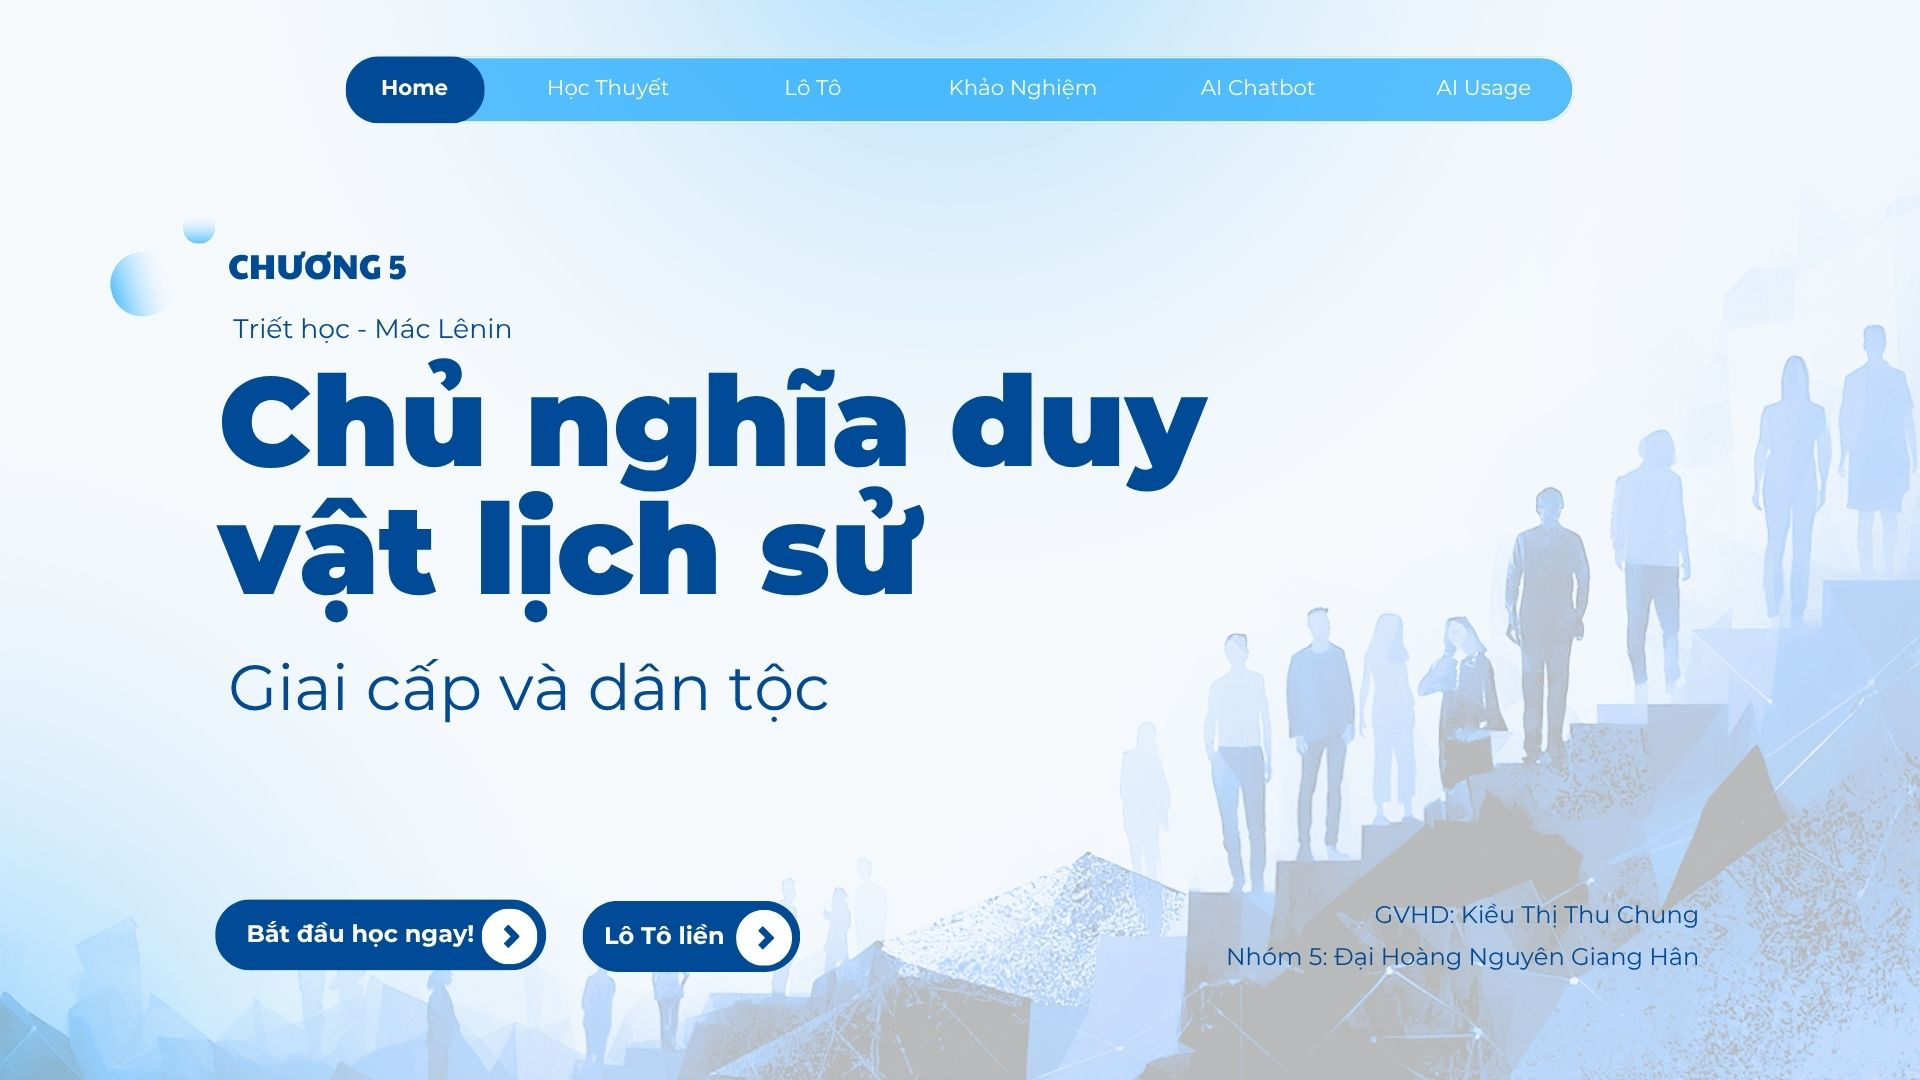
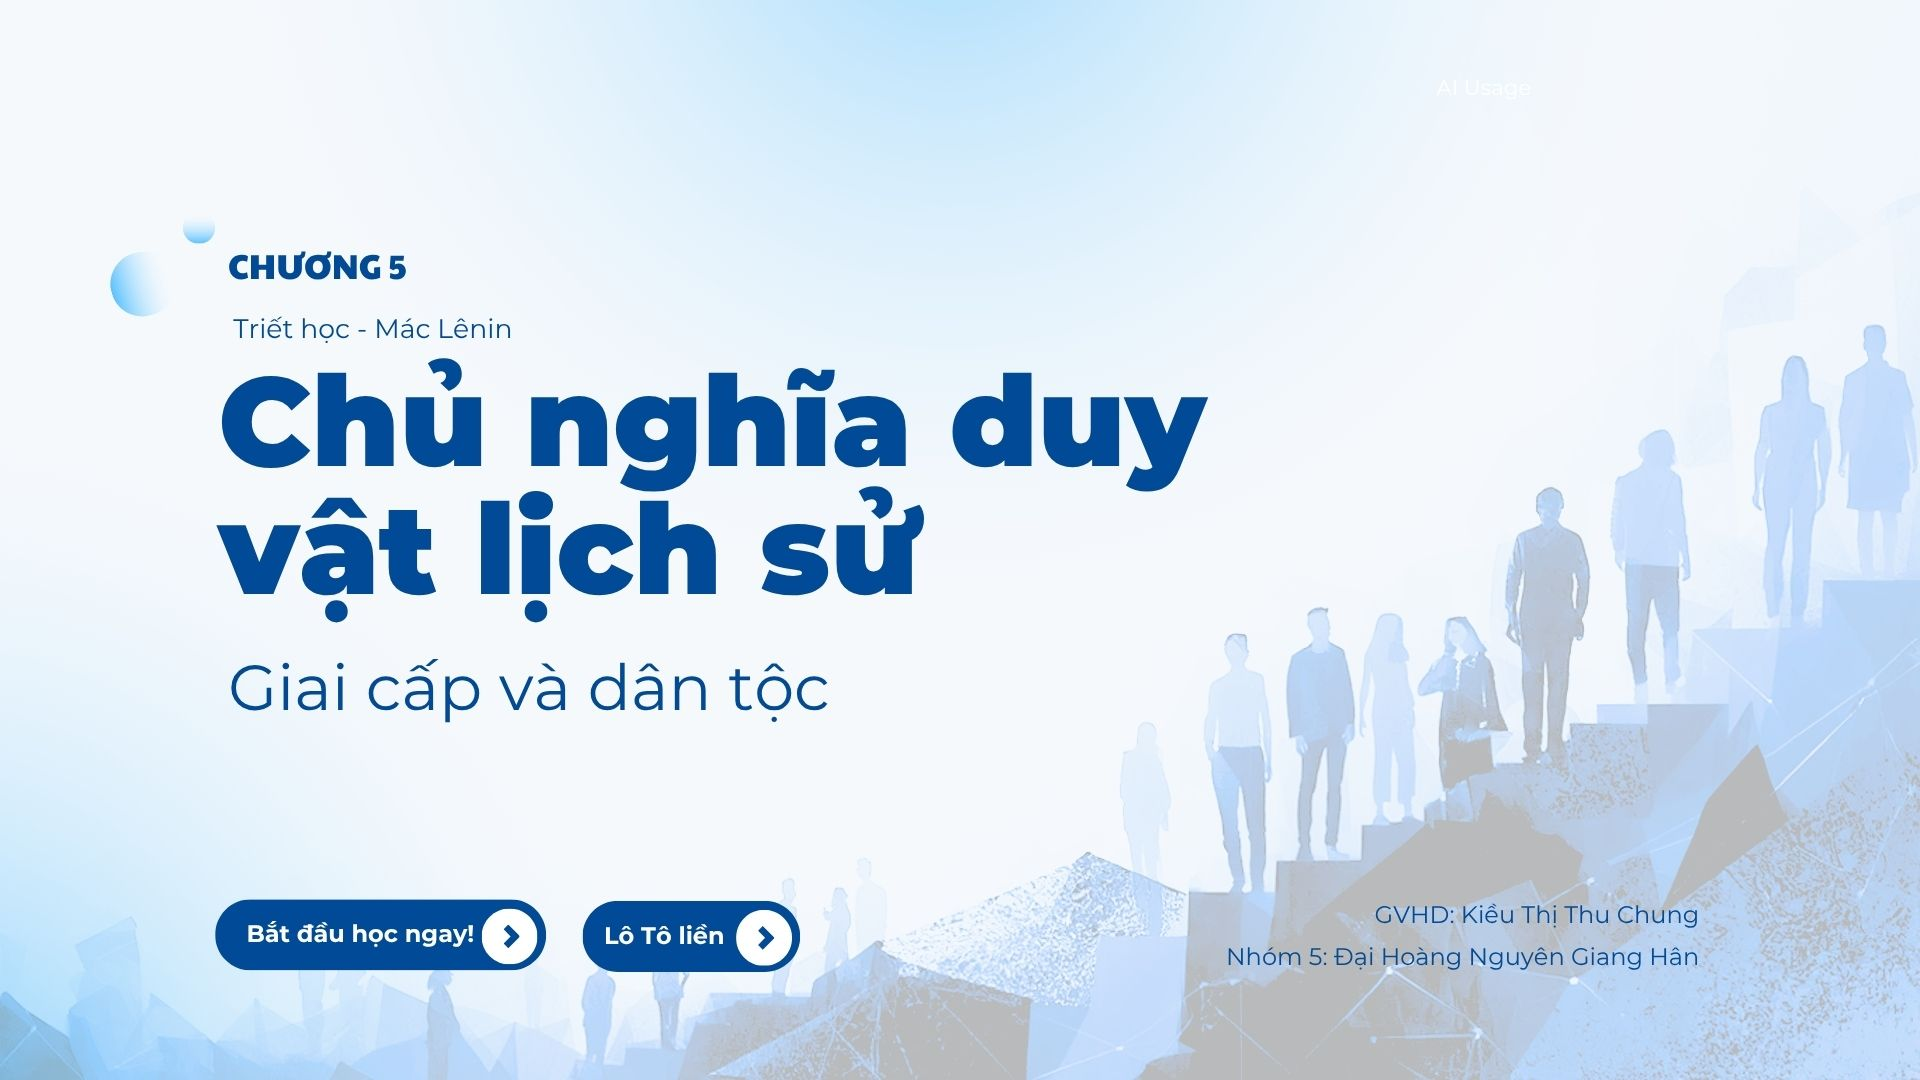
Home

Changed region(s): [[0.1562, 0.0306, 0.8438, 0.1222]]

diff --git a/src/game/sections/Hero.jsx b/src/game/sections/Hero.jsx
@@ -3,11 +3,23 @@ const SLIDE_SRC = "/home-chapter-3.jpg";
 export default function Hero() {
   return (
     <section className="home-slide" id="home">
-      <img
-        className="home-slide-image"
-        src={SLIDE_SRC}
-        alt="Chủ nghĩa duy vật lịch sử - Giai cấp và dân tộc"
-      />
+      <div className="home-slide-frame">
+        <img
+          className="home-slide-image"
+          src={SLIDE_SRC}
+          alt="Chủ nghĩa duy vật lịch sử - Giai cấp và dân tộc"
+        />
+        <a
+          className="home-slide-hotspot home-slide-hotspot-theory"
+          href="#ton-tai"
+          aria-label="Bắt đầu học ngay"
+        />
+        <a
+          className="home-slide-hotspot home-slide-hotspot-loto"
+          href="#loto"
+          aria-label="Lô Tô liền"
+        />
+      </div>
     </section>
   );
 }

diff --git a/src/index.css b/src/index.css
@@ -552,11 +552,43 @@ h3 {
   background: transparent;
 }
 
+.home-slide-frame {
+  position: relative;
+  width: min(100vw, calc(100vh * 16 / 9));
+  height: min(100vh, calc(100vw * 9 / 16));
+}
+
 .home-slide-image {
   width: 100%;
-  height: 100vh;
-  object-fit: contain;
+  height: 100%;
+  object-fit: cover;
   display: block;
+}
+
+.home-slide-hotspot {
+  position: absolute;
+  z-index: 5;
+  display: block;
+  border-radius: 9999px;
+}
+
+.home-slide-hotspot:focus-visible {
+  outline: 3px solid rgba(11, 87, 163, 0.9);
+  outline-offset: 4px;
+}
+
+.home-slide-hotspot-theory {
+  left: 11.1%;
+  top: 85.4%;
+  width: 17.4%;
+  height: 6.8%;
+}
+
+.home-slide-hotspot-loto {
+  left: 30.2%;
+  top: 85.4%;
+  width: 11.9%;
+  height: 6.8%;
 }
 
 /* Background painting – image set via inline style in JSX */
